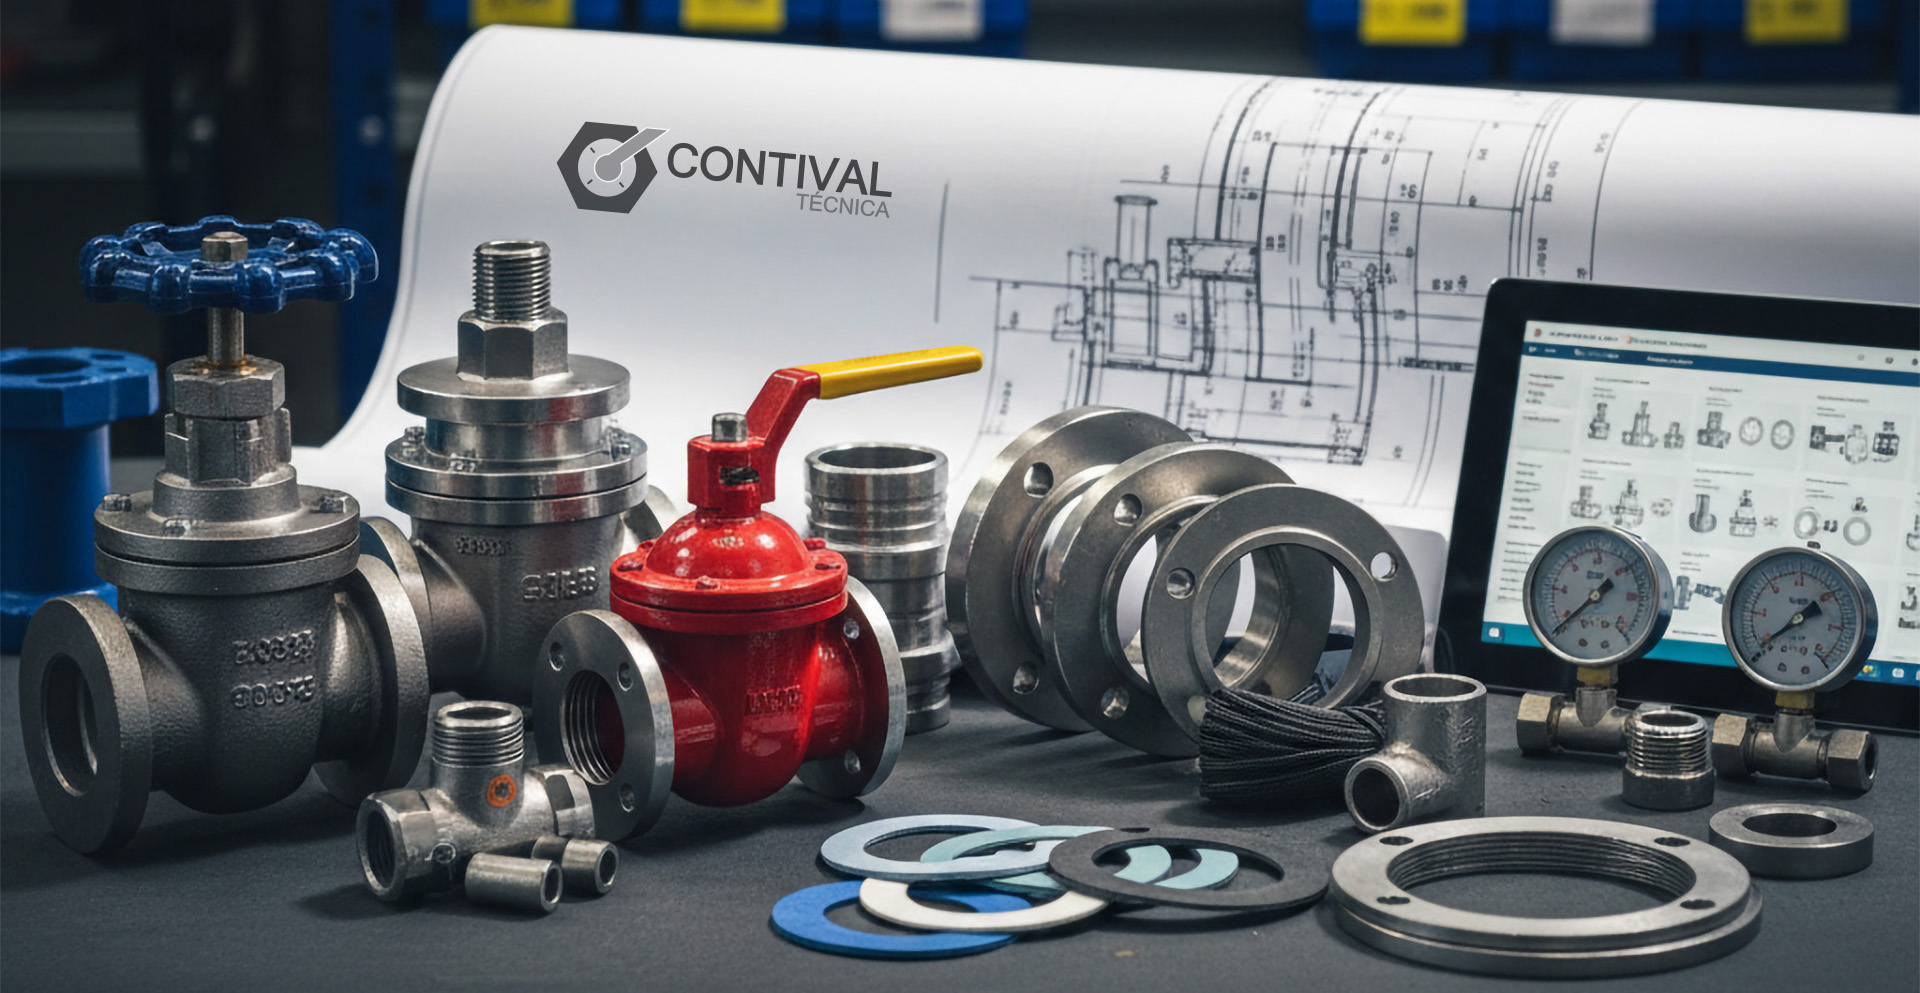
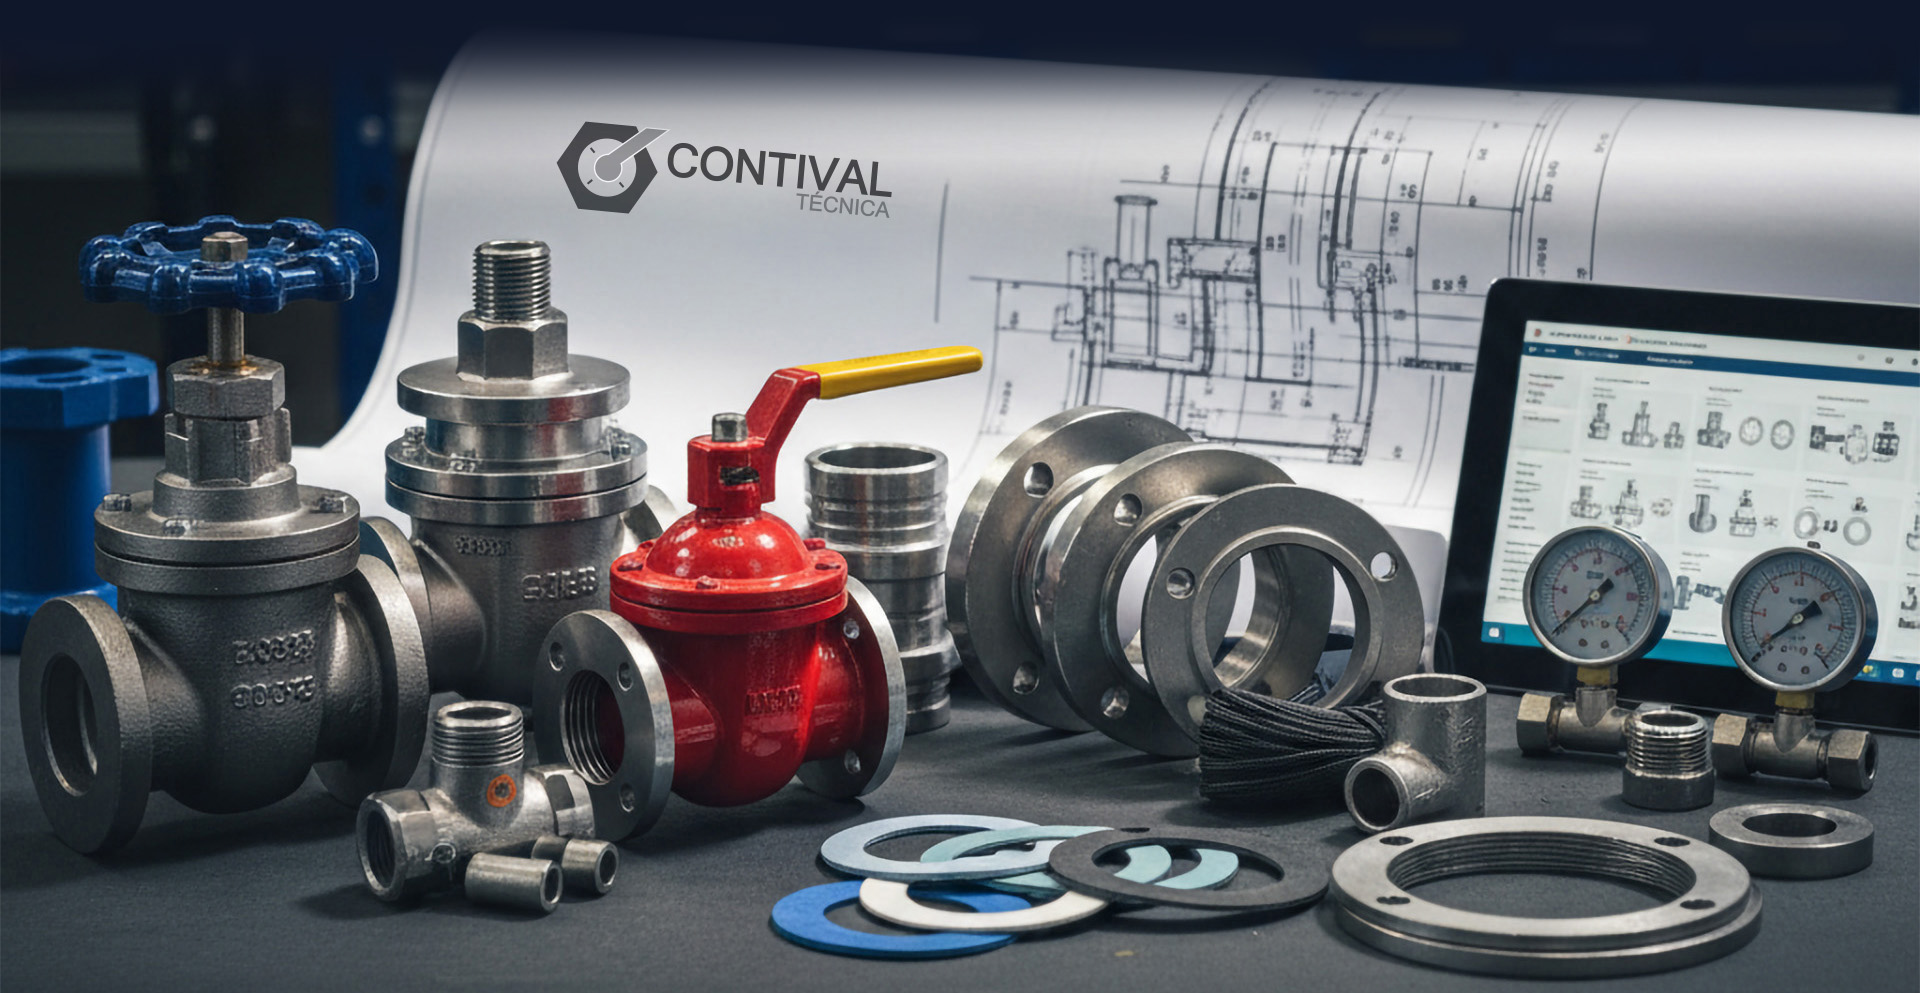
m

Changed region(s): [[0.1875, 0.0, 1.0, 0.1561]]

diff --git a/index.html b/index.html
@@ -133,7 +133,7 @@
         <!-- ===== HERO SECTION ===== -->
         <section id="inicio" class="relative text-white overflow-hidden scroll-mt-20">
             <canvas id="particle-canvas"></canvas>
-            <div id="hero-background" class="absolute inset-0 z-0 w-full h-full" style="background-image: url('https://raw.githubusercontent.com/MauroCasarin/contivaltecnica/refs/heads/main/Fondo.jpg'); background-size: cover; background-position: center; will-change: transform;"></div>
+            <div id="hero-background" class="absolute inset-0 z-0 w-full h-full scale-110" style="background-image: url('https://raw.githubusercontent.com/MauroCasarin/contivaltecnica/refs/heads/main/Fondo.jpg'); background-size: cover; background-position: center; will-change: transform;"></div>
             <div class="absolute inset-0 z-0 bg-black/60"></div>
             <div class="absolute inset-0 z-0 bg-gradient-to-br from-brand-blue/40 via-brand-cyan/20 to-brand-dark/60"></div>
             
@@ -148,22 +148,14 @@
 
                 <!-- LEYENDA TÉCNICA -->
                 <div class="flex flex-col md:flex-row items-center justify-center gap-6 md:gap-0 animate__animated animate__fadeInUp animate__delay-1s border-t border-white/10 pt-10">
-                    
-                    <!-- Vapor (Icono actualizado: RÉPLICA EXACTA SEGÚN REFERENCIA) -->
                     <div class="hero-spec-item md:pr-12">
                         <svg class="hero-spec-icon" viewBox="0 0 100 120" fill="currentColor" xmlns="http://www.w3.org/2000/svg">
-                            <!-- Estela izquierda -->
                             <path d="M38.5,102.7c-8.6-13.8-1.4-26.6,2.4-40.4c3.8-13.8-1.5-23.8-8.4-32.8c9.3,5.9,17.1,18.7,17.1,32.7 C49.6,76.2,43.6,90.9,38.5,102.7z" />
-                            <!-- Estela derecha -->
                             <path d="M68.5,82.7c-8.6-13.8-1.4-26.6,2.4-40.4c3.8-13.8-1.5-23.8-8.4-32.8c9.3,5.9,17.1,18.7,17.1,32.7 C79.6,56.2,73.6,70.9,68.5,82.7z" opacity="0.9" />
                         </svg>
                         <span class="hero-spec-text">Línea de Vapor</span>
                     </div>
-
-                    <!-- Separador vertical -->
                     <div class="hidden md:block h-6 w-px bg-white/20"></div>
-                    
-                    <!-- Gases -->
                     <div class="hero-spec-item md:px-12">
                         <svg class="hero-spec-icon" fill="none" viewBox="0 0 24 24" stroke="currentColor">
                             <circle cx="12" cy="12" r="2.5" stroke-width="2"/>
@@ -175,11 +167,7 @@
                         </svg>
                         <span class="hero-spec-text">Gases Industriales</span>
                     </div>
-
-                    <!-- Separador vertical -->
                     <div class="hidden md:block h-6 w-px bg-white/20"></div>
-
-                    <!-- Fluidos -->
                     <div class="hero-spec-item md:pl-12">
                         <svg class="hero-spec-icon" fill="none" viewBox="0 0 24 24" stroke="currentColor">
                             <path stroke-linecap="round" stroke-linejoin="round" stroke-width="2" d="M12 22a7 7 0 007-7c0-4.5-7-13-7-13S5 10.5 5 15a7 7 0 007 7z" />
@@ -238,7 +226,8 @@
                 </div>
             </div>
             
-            <div class="absolute bottom-0 left-0 w-full h-[5vw] min-h-[80px] overflow-hidden" aria-hidden="true">
+            <!-- ONDAS INFERIORES -->
+            <div class="absolute bottom-0 left-0 w-full h-[5vw] min-h-[80px] overflow-hidden z-30" aria-hidden="true">
                 <svg class="absolute bottom-0 left-0 w-[200%] h-full" xmlns="http://www.w3.org/2000/svg" viewBox="0 24 150 28" preserveAspectRatio="none" shape-rendering="auto">
                     <defs><path id="gentle-wave-path-slate" d="M-160 44c30 0 58-18 88-18s 58 18 88 18 58-18 88-18 58 18 88 18 v44h-352z" /></defs>
                     <g class="wave-g">
@@ -251,17 +240,25 @@
             </div>
         </section>
 
-        <!-- ===== ESPECIALIDADES TÉCNICAS (Fondo2 Maximizado y Icono Ajustado) ===== -->
-        <section id="especialidades" class="pt-16 bg-slate-900 relative pb-32 scroll-mt-24 overflow-hidden min-h-[800px] flex flex-col justify-center">
-            <!-- Capa de Imagen de Fondo (Fondo2.jpg) - Opacidad 100% y ajuste dinámico -->
-            <div id="especialidades-background" class="absolute inset-0 z-0 opacity-100" 
+        <!-- ===== ESPECIALIDADES TÉCNICAS (CON FUSIÓN MEJORADA) ===== -->
+        <section id="especialidades" class="bg-slate-900 relative pb-32 scroll-mt-24 overflow-hidden min-h-[800px] flex flex-col justify-center">
+            
+            <!-- Imagen Fondo 2 (Opacidad 40% para sutileza máxima) -->
+            <div id="especialidades-background" class="absolute inset-0 z-0 opacity-40 scale-110" 
                  style="background-image: url('https://raw.githubusercontent.com/MauroCasarin/contivaltecnica/refs/heads/main/Fondo2.jpg'); background-size: cover; background-position: center top; will-change: transform;">
             </div>
-            <!-- Overlay de Degradado suave para profundidad -->
-            <div class="absolute inset-0 z-0 bg-gradient-to-b from-slate-900/60 via-transparent to-slate-900/80"></div>
+
+            <!-- DEGRADADO FIJO A LA BASE DE LAS ONDAS (Encima de la imagen) -->
+            <div class="absolute inset-x-0 top-0 h-64 z-10 pointer-events-none bg-gradient-to-b from-[#0f172a] via-[#0f172a]/95 via-40% via-[#0f172a]/70 to-transparent"></div>
             
-            <div class="relative z-10 container mx-auto px-4 sm:px-6 lg:px-8">
-                <div class="text-center mb-12 animate__animated animate__fadeInDown">
+            <!-- Oscurecimiento extra -->
+            <div class="absolute inset-0 z-0 bg-slate-900/30"></div>
+            
+            <!-- Profundidad inferior -->
+            <div class="absolute inset-0 z-0 bg-gradient-to-b from-transparent via-slate-900/10 to-slate-900/95"></div>
+            
+            <div class="relative z-20 container mx-auto px-4 sm:px-6 lg:px-8 mt-16">
+                <div class="text-center mb-16 animate__animated animate__fadeInDown">
                     <h2 class="text-3xl font-extrabold text-white tracking-tight uppercase drop-shadow-[0_4px_12px_rgba(0,0,0,0.9)]">Especialidades Técnicas</h2>
                     <p class="mt-4 max-w-xl mx-auto text-lg text-white font-bold drop-shadow-[0_2px_6px_rgba(0,0,0,0.9)]">Ingeniería aplicada para procesos críticos.</p>
                 </div>
@@ -356,7 +353,7 @@
 
     <!-- ===== FOOTER ===== -->
     <footer class="bg-brand-dark relative overflow-hidden">
-        <div id="footer-background" class="absolute inset-0 z-0 opacity-10" style="background-image: url('https://raw.githubusercontent.com/MauroCasarin/contivaltecnica/refs/heads/main/Fondo.jpg'); background-size: cover; background-position: center; will-change: transform;"></div>
+        <div id="footer-background" class="absolute inset-0 z-0 opacity-10 scale-110" style="background-image: url('https://raw.githubusercontent.com/MauroCasarin/contivaltecnica/refs/heads/main/Fondo.jpg'); background-size: cover; background-position: center; will-change: transform;"></div>
         <div class="absolute inset-0 z-0 bg-brand-dark/90"></div>
         <div class="relative z-10">
             <div class="bg-slate-700/70 backdrop-blur-sm py-6">
@@ -487,13 +484,26 @@
                 animatedElements.forEach(el => { el.style.opacity = 0; observer.observe(el); });
             }
 
-            const parallaxBgs = document.querySelectorAll('#hero-background, #footer-background, #especialidades-background');
+            const parallaxBgs = [
+                { id: 'hero-background', factor: 0.3 },
+                { id: 'especialidades-background', factor: 0.3 },
+                { id: 'footer-background', factor: 0.3 }
+            ];
+
             window.addEventListener('scroll', () => {
                 const yOffset = window.scrollY;
-                parallaxBgs.forEach(bg => {
-                    let factor = 0.4;
-                    if (bg.id === 'especialidades-background') factor = 0.05; // Ajuste para que la imagen no se desplace fuera del viewport
-                    bg.style.transform = `translate3d(0, ${yOffset * factor}px, 0)`;
+                parallaxBgs.forEach(item => {
+                    const bg = document.getElementById(item.id);
+                    if (bg) {
+                        const section = bg.parentElement;
+                        const rect = section.getBoundingClientRect();
+                        const inView = rect.top < window.innerHeight && rect.bottom > 0;
+                        
+                        if (inView) {
+                            const relativeScroll = bg.id === 'hero-background' ? yOffset : (yOffset - (section.offsetTop - window.innerHeight));
+                            bg.style.transform = `translate3d(0, ${relativeScroll * item.factor}px, 0)`;
+                        }
+                    }
                 });
             });
 

diff --git a/README.md b/README.md
@@ -6,7 +6,7 @@
 
 This contains everything you need to run your app locally.
 
-View your app in AI Studio: https://ai.studio/apps/drive/1Bm8-BOVGgaVkMERxNejs47ebam_hfFdz
+View your app in AI Studio: https://ai.studio/apps/drive/1k42lRdww1XPfIhvW30iHreN-6soACsYE
 
 ## Run Locally
 
